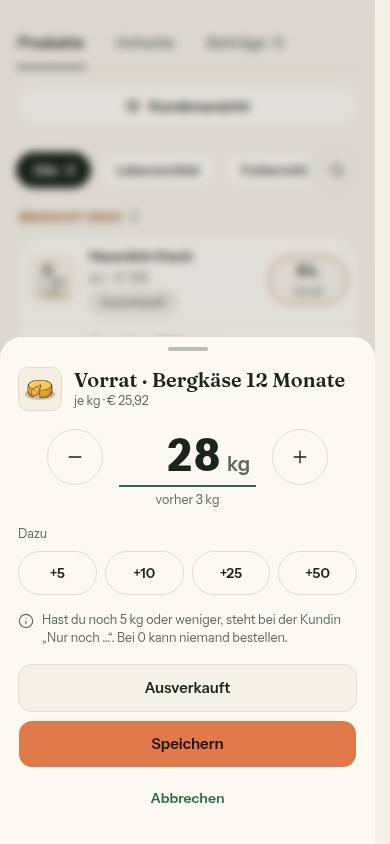
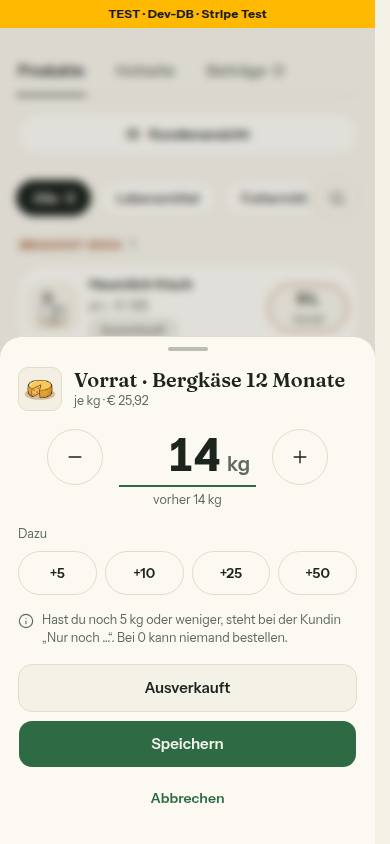
fix: Nr. 144 Runde 1 – „Speichern“ grün wie im Board, Suche im DOM hinter den Filtern
- Vorrat-Blatt: „Speichern“ mit den Tokens accent wie im Board (Bildschirm B)
  und wie die Hauptaktionen der Bestellungen; Bild des Blatts neu.
- Produkte-Ansicht: Das Suchfeld steht im DOM wieder hinter der Reihe der
  Filter und kommt nur unter md sichtbar nach oben (max-md:order-first). Ab md
  stimmt die Tab-Reihenfolge wieder mit der sichtbaren überein (WCAG 2.4.3),
  am Handy folgt das Feld auf die Lupe.
- Tests je zuerst rot; afterEach setzt den Filter der Ansicht-Tests zurück.
- Gegenprobe je Fall in tests/vorrat-setzen.test.ts im Bericht belegt.
- Doku: DESIGN_SYSTEM Abschnitt Produkte, DEVELOPMENT.md, Bericht 144.

Integration vorrat-setzen.int.test.ts grün.
voller Lauf grün

Claude-Session: https://claude.ai/code/session_016mcnK6M2any3pAayV5rccV

diff --git a/src/components/produkte/produkte-ansicht.tsx b/src/components/produkte/produkte-ansicht.tsx
@@ -251,27 +251,6 @@ export function ProdukteAnsicht({ products: serverProdukte, hofBetriebsnummer, r
       ) : (
         <>
           <div className="flex flex-col gap-3 md:flex-row md:items-center">
-            <label className={cn('relative md:order-last md:block md:w-[260px]', sucheOffen ? 'block' : 'hidden')}>
-              <span className="sr-only">Produkt suchen</span>
-              <Search className="pointer-events-none absolute top-1/2 left-3.5 size-4 -translate-y-1/2 text-muted-foreground" strokeWidth={1.7} aria-hidden="true" />
-              <input
-                ref={sucheFeld}
-                id={sucheId}
-                type="search"
-                value={suche}
-                onChange={(e) => {
-                  // Länger als ein Produktname kann kein Treffer sein — die Adresse bleibt kurz.
-                  const wert = e.target.value.slice(0, PRODUKTNAME_MAX)
-                  setSuche(wert)
-                  schreibeAdresse(filterAdresse(ansicht.filter, wert))
-                }}
-                placeholder="Produkt suchen …"
-                className={cn(
-                  'h-11 w-full rounded-full border border-border bg-card pr-4 pl-10 text-base text-foreground placeholder:text-muted-foreground md:h-9 md:text-[13px]',
-                  FOKUS_RAHMEN
-                )}
-              />
-            </label>
             <div className="-mx-4 flex items-center gap-2 pr-4 md:mx-0 md:min-w-0 md:flex-1 md:pr-0">
               <FilterChipReihe beschriftung="Produkte filtern" className="mx-0 min-w-0 flex-1">
                 {sichtbareProdukteFilter(zahlen, ansicht.filter).map((f) => {
@@ -308,6 +287,28 @@ export function ProdukteAnsicht({ products: serverProdukte, hofBetriebsnummer, r
                 <Search className="size-4" strokeWidth={1.7} aria-hidden="true" />
               </button>
             </div>
+            {/* Im DOM hinter den Filtern (ab md rechts, wie vorher); unter md sichtbar darüber — der Fokus folgt auf die Lupe. */}
+            <label className={cn('relative max-md:order-first md:block md:w-[260px]', sucheOffen ? 'block' : 'hidden')}>
+              <span className="sr-only">Produkt suchen</span>
+              <Search className="pointer-events-none absolute top-1/2 left-3.5 size-4 -translate-y-1/2 text-muted-foreground" strokeWidth={1.7} aria-hidden="true" />
+              <input
+                ref={sucheFeld}
+                id={sucheId}
+                type="search"
+                value={suche}
+                onChange={(e) => {
+                  // Länger als ein Produktname kann kein Treffer sein — die Adresse bleibt kurz.
+                  const wert = e.target.value.slice(0, PRODUKTNAME_MAX)
+                  setSuche(wert)
+                  schreibeAdresse(filterAdresse(ansicht.filter, wert))
+                }}
+                placeholder="Produkt suchen …"
+                className={cn(
+                  'h-11 w-full rounded-full border border-border bg-card pr-4 pl-10 text-base text-foreground placeholder:text-muted-foreground md:h-9 md:text-[13px]',
+                  FOKUS_RAHMEN
+                )}
+              />
+            </label>
           </div>
 
           {gefiltert.length === 0 ? (

diff --git a/tests/produkte-seite.test.ts b/tests/produkte-seite.test.ts
@@ -22,7 +22,7 @@
  *    Adresse an.
  *  - /products liegt in (hof), der Bestand (farmer) hat es nicht mehr.
  */
-import { describe, it, expect, vi, beforeAll } from 'vitest'
+import { describe, it, expect, vi, beforeAll, afterEach } from 'vitest'
 import { existsSync, readFileSync } from 'node:fs'
 import { join } from 'node:path'
 import { createElement, type ReactNode } from 'react'
@@ -481,6 +481,11 @@ describe('Route in der HofShell', () => {
 // ─── Darstellung (serverseitig gerendert, ohne DOM — TESTING_GUIDELINES §1) ──
 
 describe('Ansicht /products — vier Zustände, lange Namen, Tokens', () => {
+  // Ein Filter aus der Adresse gilt nur für seinen Fall, auch wenn rendere wirft.
+  afterEach(() => {
+    navigation.filter = null
+  })
+
   // Schweres Modul (Ansicht samt Dialogen und Formularen) einmal kalt laden —
   // nicht im ersten Test, dessen 5-s-Grenze es sonst reißt (TESTING_GUIDELINES §4).
   beforeAll(async () => {
@@ -595,7 +600,6 @@ describe('Ansicht /products — vier Zustände, lange Namen, Tokens', () => {
   it('„Nicht im Shop" filtert: einfache Liste, das Schild steht dann an der Zeile', async () => {
     navigation.filter = 'entwuerfe'
     const { zeilen } = teile(await rendere(liste))
-    navigation.filter = null
     expect(zeilen).toContain('>Nicht im Shop<')
     expect(zeilen).not.toContain('Braucht dich')
   })
@@ -609,6 +613,19 @@ describe('Ansicht /products — vier Zustände, lange Namen, Tokens', () => {
     expect(await rendere(liste, 'karotten')).toMatch(/<button[^>]*aria-label="Produkt suchen"[^>]*aria-expanded="true"/)
   })
 
+  it('die Suche steht im DOM hinter den Filtern: ab md wie vorher rechts, unter md sichtbar oben — der Fokus folgt der Lupe', async () => {
+    const html = await rendere(liste, 'karotten')
+    const filter = html.indexOf('aria-label="Produkte filtern"')
+    const lupe = html.indexOf('aria-label="Produkt suchen"')
+    const feld = html.indexOf('type="search"')
+    expect(filter).toBeGreaterThan(0)
+    expect(lupe).toBeGreaterThan(filter)
+    expect(feld).toBeGreaterThan(lupe)
+    // Sichtbar nach oben nur unter md; ab md bleibt die Reihenfolge des DOM (WCAG 2.4.3).
+    expect(html).toMatch(/<label class="[^"]*max-md:order-first[^"]*">/)
+    expect(html).not.toContain('md:order-last')
+  })
+
   it('lange Namen: höchstens zwei Zeilen, der volle Name im title', async () => {
     const html = await rendere(liste)
     expect(html).toContain(`title="${lang}"`)
@@ -618,7 +635,6 @@ describe('Ansicht /products — vier Zustände, lange Namen, Tokens', () => {
   it('Filter aus der Adresse (alter Wert entwuerfe): nur, was nicht im Shop steht', async () => {
     navigation.filter = 'entwuerfe'
     const html = await rendere(liste)
-    navigation.filter = null
     expect(html).toContain('Vorrat Bergwiesen')
     expect(html).not.toContain('Vorrat Karotten')
   })

diff --git a/src/components/produkte/vorrat-blatt.tsx b/src/components/produkte/vorrat-blatt.tsx
@@ -34,7 +34,7 @@ export function vorratGrenzSatz(unit: string, unitSize: number | null): string {
  *
  * Form nach DESIGN_SYSTEM „Dialoge und Blätter", nicht nach dem Board: kein
  * Kreuz, „Speichern" über die volle Breite, „Abbrechen" als Textknopf darunter,
- * „Ausverkauft" als Umriss darüber. Das Feld nimmt `inputMode="numeric"` —
+ * „Ausverkauft" als Umriss darüber; „Speichern" grün wie im Board. Das Feld nimmt `inputMode="numeric"` —
  * der Vorrat ist eine ganze Zahl (das Board zeigt `decimal`).
  */
 export function VorratBlatt({
@@ -170,7 +170,8 @@ export function VorratBlatt({
             disabled={laeuft}
             aria-busy={laeuft || undefined}
             onClick={() => void speichern(anzeige)}
-            className="h-12 w-full rounded-[14px] text-[15px] font-semibold"
+            // Grün wie im Board (Bildschirm B) und wie die Hauptaktionen der Bestellungen.
+            className="h-12 w-full rounded-[14px] bg-accent text-[15px] font-semibold text-accent-foreground hover:bg-accent/90"
           >
             {laeuft ? 'Speichert …' : 'Speichern'}
           </Button>

diff --git a/tests/vorrat-setzen.test.ts b/tests/vorrat-setzen.test.ts
@@ -349,6 +349,15 @@ describe('Vorrat-Blatt', () => {
     expect(router.refresh).toHaveBeenCalledTimes(1)
   })
 
+  it('„Speichern" grün wie im Board (Token accent), „Ausverkauft" als Umriss', () => {
+    oeffne()
+    const speichern = String(knopf('Speichern').className)
+    expect(speichern).toContain('bg-accent')
+    expect(speichern).toContain('text-accent-foreground')
+    expect(knopf('Ausverkauft').variant).toBe('outline')
+    expect(String(knopf('Ausverkauft').className)).not.toContain('bg-accent')
+  })
+
   it('„Ausverkauft" speichert sofort 0', async () => {
     setzeVorrat.mockResolvedValueOnce({ ok: true, vorrat: 0, wiederDa: false })
     const { onSchliessen } = oeffne({ stock: 12 })

diff --git a/docs/ai/DESIGN_SYSTEM.md b/docs/ai/DESIGN_SYSTEM.md
@@ -484,13 +484,13 @@ Umgesetzt in `src/components/shells/` (KundeShell, KundeFokusShell, HofShell, Ad
 
 - **In der HofShell** (Routengruppe `(hof)`). Kopf ab md: h1 „Produkte", darunter „N Produkte · M sichtbar" (`produkteKopfzeile`, gezählt wird „sichtbar", nicht der Vorrat); ab 768 px rechts genau ein oranger Knopf „+ Neues Produkt" — er öffnet „Was legst du an?". Am Handy legt das Plus der Unterleiste an. **Unter md (Register N25)** hört die h1 nur der Screenreader (der Reiter sagt es), die Kopfzeile entfällt — die Zahl steht im Filter „Alle · N".
 - **Unter md ein Reiter von Mein Hof (seit Nr. 49, Register N3):** darüber die Reiter Produkte · Hofseite · Beiträge (`MeinHofReiterLeiste`, Produkte aktiv) und der Knopf „Kundenansicht". Ab md bleibt die Seite, wie sie war — Produkte ist dort ein Punkt der Seitenleiste.
-- **Filter** als `FilterChip`-Links in der Adresse (`?filter=`): Alle · N, Lebensmittel, Futtermittel, Brennmaterial (nur, wenn es welches gibt), Nicht im Shop · N (Wert in der Adresse weiter `entwuerfe`, alte Links gelten); daneben die Suche „Produkt suchen …" (`?suche=`, Pille, 16 px). Angewandt im Browser per `replaceState(null, …)`. **Unter md ist die Suche eine Lupe** (44 px, `aria-label` „Produkt suchen", `aria-expanded`) am Ende der Reihe der Filter: Ein Tipp öffnet das Feld über den Filtern und setzt den Fokus hinein, ein zweiter schließt es und leert die Suche; steht schon eine Suche in der Adresse, ist das Feld offen.
+- **Filter** als `FilterChip`-Links in der Adresse (`?filter=`): Alle · N, Lebensmittel, Futtermittel, Brennmaterial (nur, wenn es welches gibt), Nicht im Shop · N (Wert in der Adresse weiter `entwuerfe`, alte Links gelten); daneben die Suche „Produkt suchen …" (`?suche=`, Pille, 16 px). Angewandt im Browser per `replaceState(null, …)`. **Unter md ist die Suche eine Lupe** (44 px, `aria-label` „Produkt suchen", `aria-expanded`) am Ende der Reihe der Filter: Ein Tipp öffnet das Feld über den Filtern und setzt den Fokus hinein, ein zweiter schließt es und leert die Suche; steht schon eine Suche in der Adresse, ist das Feld offen. Im DOM steht das Feld hinter den Filtern und nur unter md sichtbar darüber (`max-md:order-first`) — ab md stimmt die Tab-Reihenfolge mit der sichtbaren überein.
 - **Tabelle ab 1024 px** (Mockup web-h2-produkte): Bild 44 px · Produkt · Einheit (eigene Spalte ab 1280 px, darunter unter dem Namen) · Preis (`formatEuro`, darunter `GrundpreisZeile`) · Vorrat · Status · Sichtbar. Namen höchstens zwei Zeilen mit `title`; der Name ist der Knopf zum Bearbeiten.
 - **Karten-Zeilen unter 1024 px (Register N25, Board system-h1-mein-hof-v3, Bildschirme A und B):** Abschnitte aus `produkteAbschnitte` — „Braucht dich · n" (Überschrift klein in Großbuchstaben, `text-status-offen`; im Shop und ausverkauft, dann bis `LOW_STOCK_THRESHOLD`, dann ein Hinweis mit Handlung), „Im Shop · n · deine Reihenfolge", am Ende im Filter „Alle" eine gestrichelte Zeile „Nicht im Shop · n" (Link auf den Filter), unter einem Bereichsfilter der Abschnitt „Nicht im Shop" mit seinen Zeilen. Leere Abschnitte entfallen; mit Suche und im Filter „Nicht im Shop" eine einfache Liste. Je Abschnitt eine Karte, Zeilen durch Linien getrennt. Größen bleiben je eine Zeile. Zeile: Bild 48 px, Name (bis zwei Zeilen), „Gebinde · Preis", ein Schild NUR bei einer Ausnahme (Ausverkauft, Nur noch …, Nicht im Shop — kein „Sichtbar"), die Hinweise; rechts der **Vorrat als Knopf** (mindestens 48 × 80 px): oben Zahl mit Einheit (`hofVorratText`), darunter klein „Vorrat", `aria-label` „Vorrat {Name}: {Text}. Ändern"; bei Vorrat 0 trägt der Rahmen `border-status-offen`.
 - **Status** als `StatusBadge` aus `produktStatus`: Sichtbar (grün), Nur noch {Vorrat mit Einheit} (orange, Schwelle wie Hofseite; „Nur noch 3 kg", bei Gebinden „Nur noch 2 Pakete", auch in der Tabelle), Ausverkauft (neutral), Nicht im Shop (neutral, = ausgeblendet). Seit Nr. 20 trägt eine gesperrte Größe unter dem Namen einen gestrichelten orangen Hinweis mit Schloss und Grund (`ProductData.sperre`); die Marke bleibt „Nicht im Shop". Der Schalter „Sichtbar" nennt bei einer gesperrten Größe den Grund statt „nochmal".
 - **„Nicht im Shop", nie „Entwurf" (Register B2, seit Nr. 28):** Ein Produkt mit Schalter „Im Shop" aus heißt überall „Nicht im Shop" — Marke, Filter, Streifen der Hofseite, Untertitel im Formular, Toast („… ist nicht mehr im Shop"), Zusammenfassung im Produktdialog („· nicht im Shop"), Zähler und Satz über der Kundenansicht in „Meine Hof-Seite". Die Wörter kommen nur aus `src/lib/produkt-sichtbarkeit.ts` (`NICHT_IM_SHOP`, `NICHT_IM_SHOP_IM_SATZ`, `SPEICHERN_NICHT_IM_SHOP`); Enum, Spalte (`isAvailable`) und Werte in der Adresse bleiben. „Entwurf" bleibt nur für Beiträge (die haben einen echten Entwurfszustand). „N Größen warten auf Meldung" kommt mit Gate 6.
 - **Vorrat direkt ändern in der Tabelle** (`VorratFeld`): `Stepper` (Base UI NumberField, −/+ 44 px, Zahl eintippbar, Pfeiltasten); gespeichert wird beim Loslassen bzw. Verlassen des Felds, bedingt (ARCHITECTURE §5 „Vorrat setzen ist bedingt"). Wurde inzwischen bestellt: Feld zeigt den Stand des Servers, darunter der Satz orange (`text-status-offen`), in einer ständig vorhandenen Live-Region. Unter der Tabelle der Satz `VORRAT_HINWEIS`, unter den Karten-Zeilen `VORRAT_HINWEIS_ZEILEN`.
-- **Vorrat-Blatt** (`VorratBlatt`, unter 1024 px; EINMAL in der Ansicht, nicht in der Zeile): `SheetBlatt` nach „Dialoge und Blätter" — kein Kreuz. Kopf: Bild, „Vorrat · {Name}" (`SheetTitle`, Fokus beim Öffnen), „Gebinde · Preis". Darunter der `Stepper` groß (−/+ 56 px, Zahl 46 px, Einheit daneben, `inputMode="numeric"`), „vorher {Vorrat}", „Dazu" +5 +10 +25 +50 (setzen nur das Feld), der Satz zur Grenze (`vorratGrenzSatz`, Zahl aus `LOW_STOCK_THRESHOLD`), die Live-Region für Fehler, dann „Ausverkauft" (Umriss, speichert sofort 0), „Speichern" (volle Breite) und „Abbrechen" als Textknopf. Während gespeichert wird, sind alle drei gesperrt („Speichert …"), Escape und Tipp daneben schließen nicht. Ok: Das Blatt schließt, der Fokus geht an den Vorrat-Knopf des Produkts (auch nach einem Wechsel des Abschnitts), danach kommt bei „wieder da" der Moment. GEAENDERT oder Fehler: Das Blatt bleibt offen, mit dem Satz wie in der Tabelle. Gesetzt wird über `useVorratSetzen` — dieselbe Schleife wie `VorratFeld`.
+- **Vorrat-Blatt** (`VorratBlatt`, unter 1024 px; EINMAL in der Ansicht, nicht in der Zeile): `SheetBlatt` nach „Dialoge und Blätter" — kein Kreuz. Kopf: Bild, „Vorrat · {Name}" (`SheetTitle`, Fokus beim Öffnen), „Gebinde · Preis". Darunter der `Stepper` groß (−/+ 56 px, Zahl 46 px, Einheit daneben, `inputMode="numeric"`), „vorher {Vorrat}", „Dazu" +5 +10 +25 +50 (setzen nur das Feld), der Satz zur Grenze (`vorratGrenzSatz`, Zahl aus `LOW_STOCK_THRESHOLD`), die Live-Region für Fehler, dann „Ausverkauft" (Umriss, speichert sofort 0), „Speichern" (grün wie im Board, `bg-accent`, volle Breite) und „Abbrechen" als Textknopf. Während gespeichert wird, sind alle drei gesperrt („Speichert …"), Escape und Tipp daneben schließen nicht. Ok: Das Blatt schließt, der Fokus geht an den Vorrat-Knopf des Produkts (auch nach einem Wechsel des Abschnitts), danach kommt bei „wieder da" der Moment. GEAENDERT oder Fehler: Das Blatt bleibt offen, mit dem Satz wie in der Tabelle. Gesetzt wird über `useVorratSetzen` — dieselbe Schleife wie `VorratFeld`.
 - **Sichtbar** = `ImShopSchalter` Variante `neu`: grüne Schiene (`bg-accent`), Schieber crème, aus `bg-border`/`bg-muted-foreground`, 44 px; Toast mit „Rückgängig" wie bisher.
 - **Hinweise** (Kategorie übernehmen, Kategorie ergänzen, Einheit prüfen) als gestrichelte Chips unter dem Namen — orange statt der alten Bernstein-Klassen.
 - **Leer:** `EmptyState` „Noch keine Produkte" mit „+ Neues Produkt"; **kein Treffer:** `EmptyState` „Kein Produkt passt" mit „Alle Produkte zeigen". **Laden:** `(hof)/products/loading.tsx` in der Form der Seite.

diff --git a/docs/nachtlauf/berichte/144.md b/docs/nachtlauf/berichte/144.md
@@ -47,9 +47,13 @@ DEVELOPMENT.md · docs/ai/BAUSTEINE.md · docs/ai/DESIGN_SYSTEM.md · docs/nacht
 ## Bilder und Mockup-Abweichungen
 Wiederverwendet: `SheetBlatt`, `SheetClose`, `SheetTitle`, `Stepper`, `Button`, `StatusBadge`, `FilterChip`, `NamenKnopf`, `Hinweise`, `ProduktBild`, `WiederDaMoment`, `bestandLabel`, `formatMenge`, `produktZustand`. Neu, weil: Hook und Blatt verlangt die Freigabe; `hofVorratText` zählt Pakete statt „2 × 500 g“.
 
-![Produkte 390 hell](bilder/144/produkte-390-hell.jpg) ![Produkte 390 dunkel](bilder/144/produkte-390-dunkel.jpg)
-![Vorrat-Blatt 390 hell](bilder/144/vorrat-blatt-390-hell.jpg) ![Tabelle 1280 hell](bilder/144/tabelle-1280-hell.jpg)
+![Produkte 390 hell](bilder/144/produkte-390-hell.jpg) ![Produkte 390 dunkel](bilder/144/produkte-390-dunkel.jpg) ![Vorrat-Blatt 390 hell](bilder/144/vorrat-blatt-390-hell.jpg) ![Tabelle 1280 hell](bilder/144/tabelle-1280-hell.jpg)
 
-- Größen je eine Zeile statt „4 Größen“ (Freigabe). Blatt ohne Kreuz, „Ausverkauft“ als Umriss über „Speichern“ (volle Breite), „Abbrechen“ als Textknopf (DESIGN_SYSTEM „Dialoge und Blätter“; Bild Vorrat-Blatt). `inputMode="numeric"` statt `decimal` (ganze Zahl). „Speichern“ in der Hauptfarbe des Hofbereichs (orange) statt grün wie im Board.
+- Größen je eine Zeile statt „4 Größen“ (Freigabe). Blatt ohne Kreuz, „Ausverkauft“ als Umriss über „Speichern“ (volle Breite), „Abbrechen“ als Textknopf (DESIGN_SYSTEM „Dialoge und Blätter“; Bild Vorrat-Blatt). `inputMode="numeric"` statt `decimal` (ganze Zahl).
 - Axe: 390 und 1280, hell und dunkel, 0 Verstöße; offenes Blatt hell und dunkel 0 Verstöße. Tippflächen: Vorrat-Knopf 80 × 48, Lupe 44 × 44, im Blatt −/+ 56, „Dazu“ 79 × 44, Knöpfe 48 hoch. Tastatur: Lupe (Enter öffnet, Fokus im Feld), Vorrat-Knopf (Enter öffnet, Fokus auf dem Titel), Escape schließt mit Fokus zurück, 3 → 28 kg mit Wechsel nach „Im Shop“ und Fokus auf dem Knopf.
 - Testdaten nur `bauer-05` (`144-vorher.txt` = `144-nachher.txt`).
+
+## Nachbesserung Runde 1
+- `vorrat-blatt.tsx`: „Speichern“ grün wie im Board (`bg-accent text-accent-foreground`, wie die Bestellungen); Bild Vorrat-Blatt neu, Axe offenes Blatt hell und dunkel 0. `produkte-ansicht.tsx`: Suche im DOM wieder hinter den Filtern, unter md nur sichtbar oben (`max-md:order-first`) – ab md Tab-Reihenfolge wie vorher, am Handy Lupe → Feld (Shift+Tab aus dem Feld auf die Lupe, im Browser geprüft). Beide Tests zuerst rot (`144-runde1-rot.log`); `afterEach` setzt den Filter der Tests zurück. Doku: DESIGN_SYSTEM Produkte, DEVELOPMENT.md.
+- Gegenprobe `tests/vorrat-setzen.test.ts`, je Fall ein Eingriff, alle rot (`144-runde1-gegenprobe.log`): Schleife 1 `bestaetigt = ergebnis.vorrat` entfernt · 2 `wartend = null` bei Abweisung entfernt · 3 Stand nach Fehler `?? neu` statt `?? bestaetigt` · 4 `neu !== vorher` immer wahr · VorratFeld `??=` → `=` (neue Schleife je Senden) · Blatt 1 „Dazu“ speichert · 2 schließt auch nach Abweisung · 3 „Speichern“ ohne `bg-accent` · 4 „Ausverkauft“ speichert das Feld · 5 Moment sofort statt nach dem Schließen · 6 Schließen ohne `!laeuft`.
+- Eigene Dateien der Runde: DEVELOPMENT.md · docs/ai/DESIGN_SYSTEM.md · docs/nachtlauf/berichte/144.md · docs/nachtlauf/berichte/bilder/144/vorrat-blatt-390-hell.jpg · src/components/produkte/{produkte-ansicht,vorrat-blatt}.tsx · tests/{produkte-seite,vorrat-setzen}.test.ts. Integration `vorrat-setzen.int.test.ts` 10/10 (`144-integration-runde1.log`). Keine Testdaten geschrieben.

diff --git a/DEVELOPMENT.md b/DEVELOPMENT.md
@@ -5618,7 +5618,8 @@ Ein Konto mit Admin-Recht meldet sich nur noch mit Passkey (`@better-auth/passke
 - **Eine Logik zum Setzen:** Die Schleife aus `VorratFeld` (Warteschlange, `vorher`, Antworten) ist jetzt die reine Funktion `erzeugeVorratSchleife` in `use-vorrat-setzen.ts`; `useVorratSetzen` hängt sie an React (Zustand, `router.refresh` bei GEAENDERT, `onWiederDa`). Tabelle (`VorratFeld`) und Blatt (`VorratBlatt`) nutzen beide den Hook. Die Schleife entsteht beim ersten Senden im Handler: Im Render darf kein Ref an eine Funktion gehen (`react-hooks/refs`).
 - **Das Blatt steht einmal in der Ansicht,** nicht in der Zeile: Wechselt ein Produkt beim Speichern den Abschnitt, baut React die Zeile neu (anderes `ul`), ein Blatt darin verlöre Fokus, Satz und den Moment. Den Fokus gibt `finalFocus` als Funktion an den Vorrat-Knopf zurück (`data-vorrat-knopf`, beim Schließen gesucht); stand er nach dem Neubau auf `body`, holt `onOpenChangeComplete` ihn zurück. Der Moment „wieder da“ kommt erst danach. Jedes Öffnen zählt eine Runde im Schlüssel, damit ein alter Fehlersatz nicht stehen bleibt.
 - **Stepper:** reicht `inputMode` nur durch, wenn er gesetzt ist — ein `undefined` hätte die Wahl von Base UI für alle anderen Stepper überschrieben. Die große Darstellung (56 px, große Zahl, Einheit daneben) nutzt nur das Blatt.
-- **Tests ohne DOM:** `tests/vorrat-setzen.test.ts` prüft die reine Schleife mit nachgebautem `setzeVorrat` und spielt `VorratFeld` und `VorratBlatt` im Hook-Prüfstand durch (Knöpfe über ihren Text im Elementbaum gedrückt). Gegenprobe mit neun Eingriffen in Schleife und Blatt, jeder rot.
+- **Tests ohne DOM:** `tests/vorrat-setzen.test.ts` prüft die reine Schleife mit nachgebautem `setzeVorrat` und spielt `VorratFeld` und `VorratBlatt` im Hook-Prüfstand durch (Knöpfe über ihren Text im Elementbaum gedrückt). Gegenprobe je Fall mit einem Eingriff im Quelltext (vier in der Schleife, einer für `VorratFeld`, sechs im Blatt), jeder rot; die Eingriffe nennt Bericht 144.
+- **Nachbesserung Runde 1:** „Speichern“ im Blatt grün wie im Board (`bg-accent`, wie die Hauptaktionen der Bestellungen) — „Dialoge und Blätter“ legt keine Farbe fest, also gilt das Board. Die Suche steht im DOM wieder hinter den Filtern und kommt unter md nur sichtbar nach oben (`max-md:order-first`): Ab md stimmt die Tab-Reihenfolge wieder mit der sichtbaren überein (WCAG 2.4.3), am Handy folgt das Feld auf die Lupe.
 
 ## Nützliche Befehle
 
